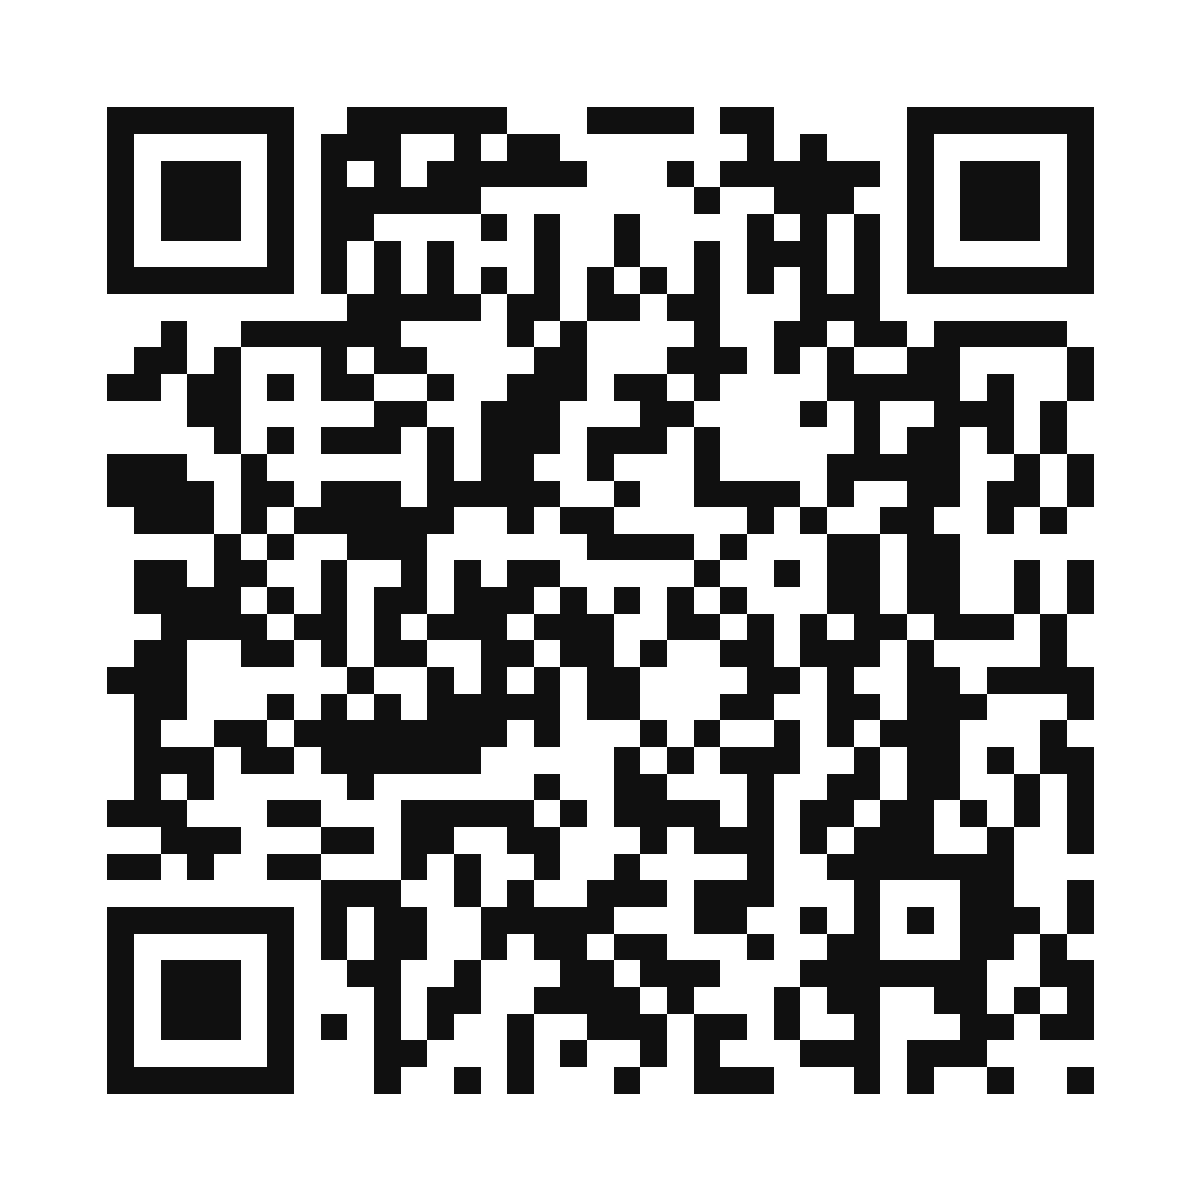
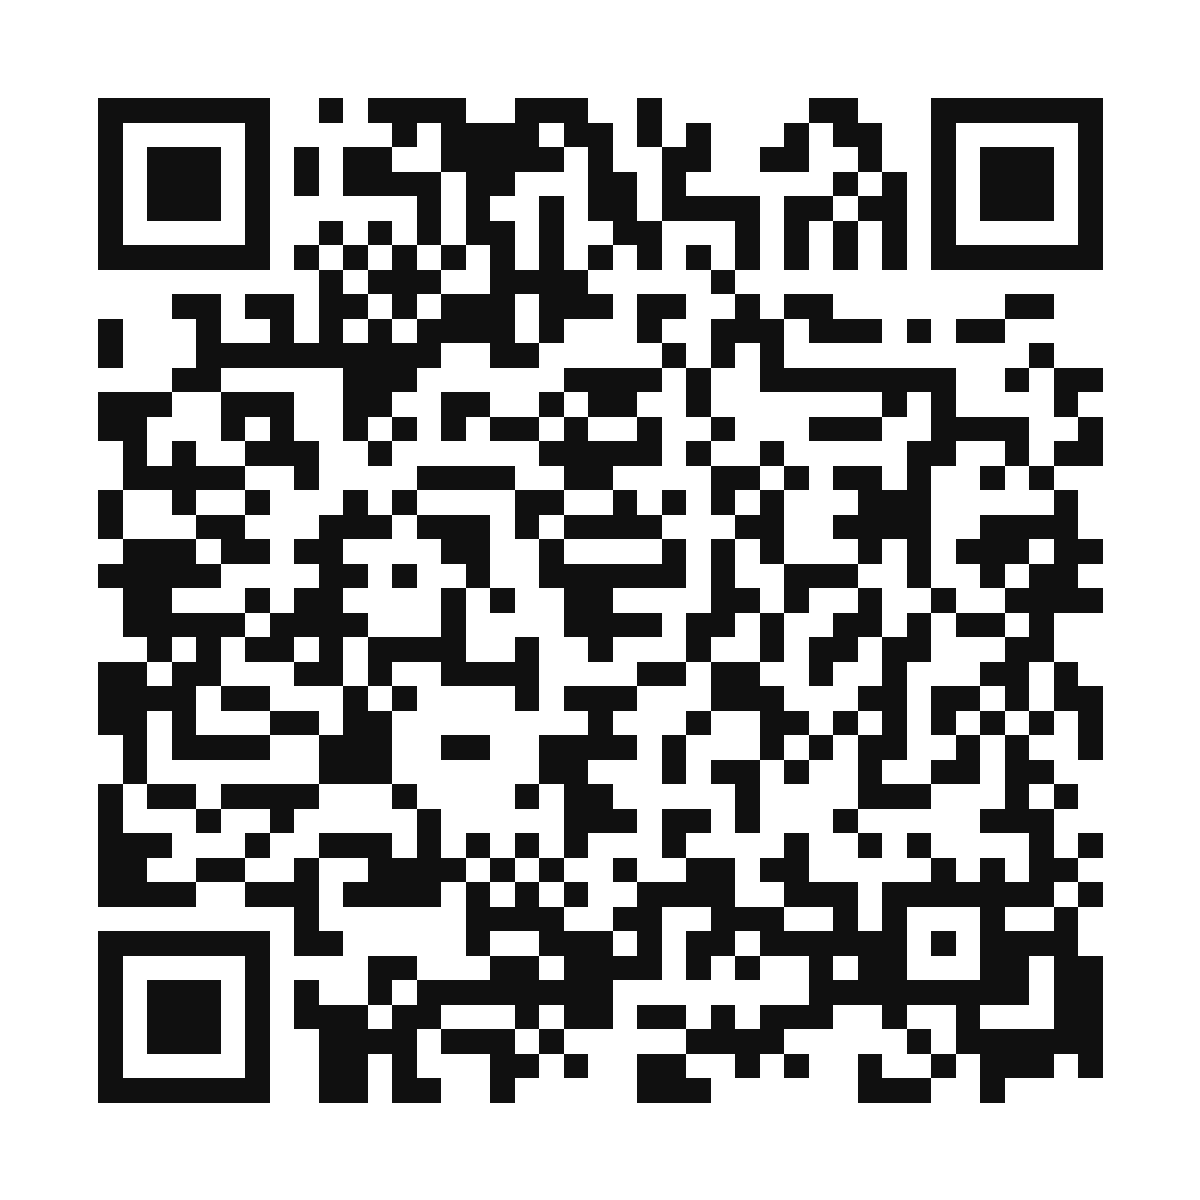
chore: actualizar nombre de remitente a Camilo y codigos QR definitivos para la URL publica

diff --git a/index.html b/index.html
@@ -196,7 +196,7 @@
         <p>Por eso preparé esto para ti. Para recordarte que tu cumpleaños merece celebrarse y que, en medio de tantas cosas, siempre vale la pena hacer espacio para los detalles que tienen intención.</p>
         <p>Espero que este nuevo año de tu vida te acerque a aquello que deseas, te regale momentos bonitos y te dé muchas razones para seguir adelante con ilusión.</p>
         <p>Feliz cumpleaños, Mariangel. Espero que hoy recibas mucho cariño y que guardes este pequeño detalle como un recuerdo bonito de tu día.</p>
-        <p class="noscript-sign">Con cariño,<br>[ NOMBRE DEL REMITENTE ]</p>
+        <p class="noscript-sign">Con cariño,<br>Camilo</p>
         <hr>
         <p class="noscript-quote">“Que la vida te sorprenda con cosas tan bonitas como las que todavía te quedan por descubrir.”</p>
       </div>

diff --git a/config.js b/config.js
@@ -12,7 +12,7 @@
 window.APP_CONFIG = Object.freeze({
   // Identidad y Nombres
   recipientName: "Mariangel",
-  senderName: "[ NOMBRE DEL REMITENTE ]", // Reemplaza con tu nombre o apodo
+  senderName: "Camilo", // Puedes cambiarlo por tu apodo si lo prefieres
 
   // Pantalla de Bienvenida (Etapa A)
   welcome: {
